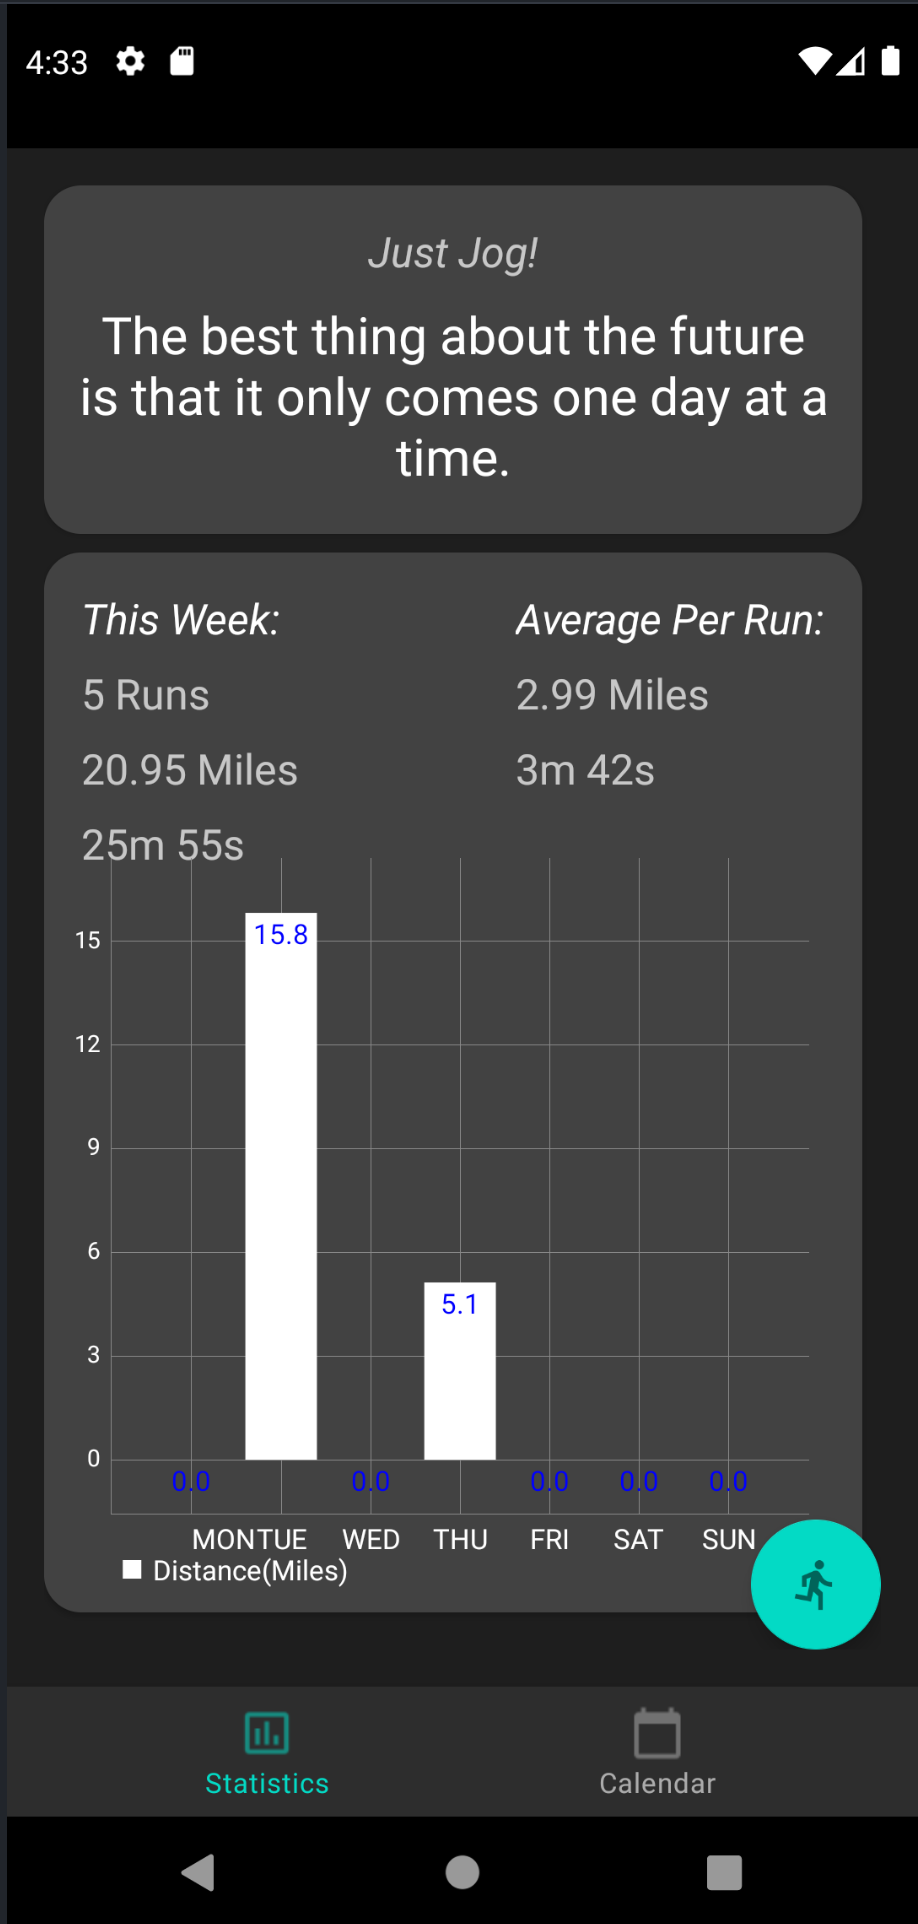
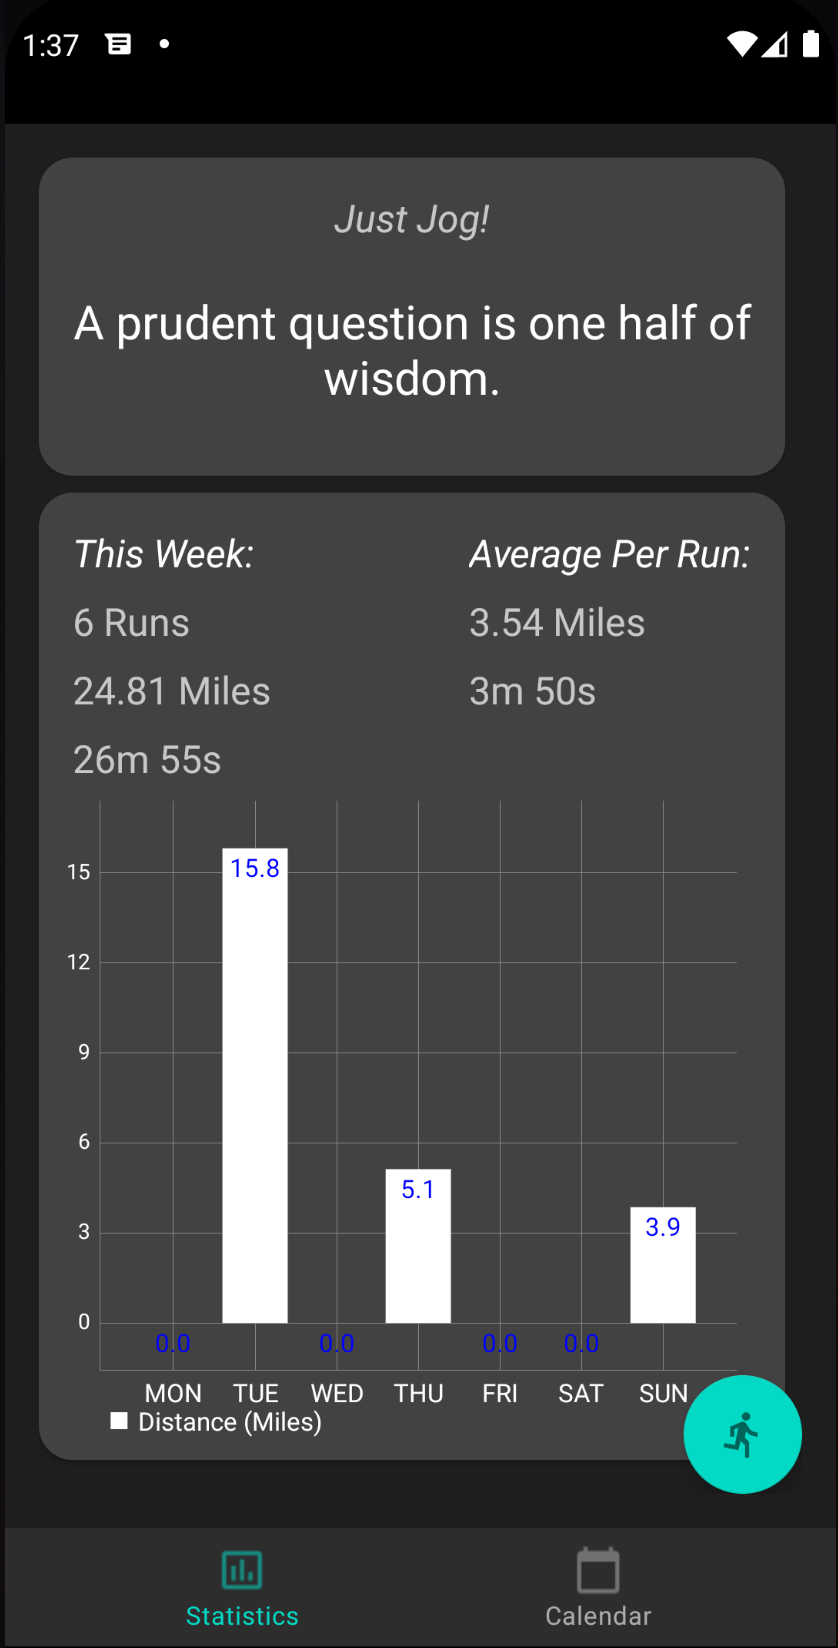
Fixed barhart text cut off, Updated Screenshot

diff --git a/just-jog/app/src/main/java/com/eljabali/joggingapplicationandroid/statistics/viewmodel/StatisticsViewModel.kt b/just-jog/app/src/main/java/com/eljabali/joggingapplicationandroid/statistics/viewmodel/StatisticsViewModel.kt
@@ -81,7 +81,7 @@ class StatisticsViewModel(application: Application, private val jogUseCase: JogU
         for (dayOfTheWeek in 0..6) {
             entries.add(BarEntry(dayOfTheWeek.toFloat(), weeksSummaries[dayOfTheWeek].toFloat()))
         }
-        val barDataSet = BarDataSet(entries, "Distance(Miles)").apply {
+        val barDataSet = BarDataSet(entries, "Distance (Miles)").apply {
             color = Color.WHITE
         }
         return BarData(barDataSet).apply {
@@ -122,12 +122,12 @@ class StatisticsViewModel(application: Application, private val jogUseCase: JogU
                     statisticsViewState =
                         if (quote.quote[quote.quote.length - 1].isLetterOrDigit()) {
                             statisticsViewState.copy(
-                                youRanToday = getApplication<JustJogApplication>().getString(R.string.you_ran_today),
+                                youRanToday = getApplication<JustJogApplication>().getString(R.string.today),
                                 todayLastJogDistance = quote.quote + "."
                             )
                         } else {
                             statisticsViewState.copy(
-                                youRanToday = getApplication<JustJogApplication>().getString(R.string.you_ran_today),
+                                youRanToday = getApplication<JustJogApplication>().getString(R.string.today),
                                 todayLastJogDistance = quote.quote
                             )
                         }

diff --git a/just-jog/app/src/main/java/com/eljabali/joggingapplicationandroid/statistics/view/StatisticsFragment.kt b/just-jog/app/src/main/java/com/eljabali/joggingapplicationandroid/statistics/view/StatisticsFragment.kt
@@ -97,7 +97,6 @@ class StatisticsFragment : Fragment() {
             }
             weeklyStatsBarChart.isDoubleTapToZoomEnabled = false
             weeklyStatsBarChart.xAxis.apply {
-                setAvoidFirstLastClipping(true)
                 position = XAxis.XAxisPosition.BOTTOM
                 textColor = Color.WHITE
                 textSize = 12f
@@ -125,7 +124,6 @@ class StatisticsFragment : Fragment() {
     private fun setNewViewState(statisticsViewState: StatisticsViewState) {
         with(binding) {
             todayRunTextView.text = statisticsViewState.todayLastJogDistance
-//            todayTextView.text = statisticsViewState.dateToday
             todayTextView.text = statisticsViewState.youRanToday
             thisWeeksRunsTextView.text =
                 statisticsViewState.weeklyStats.weeklyTotalStats.totalRuns
